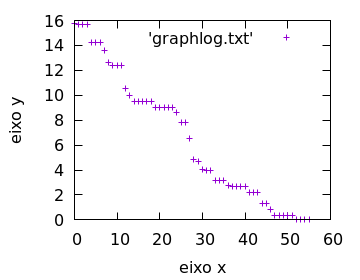
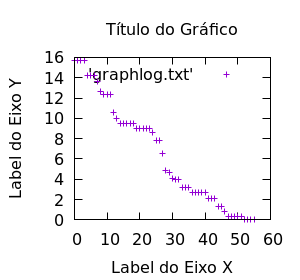
Aquela organizada no diretório [0]

diff --git a/chama_gpy.py b/chama_gpy.py
@@ -1,0 +1,10 @@
+from gplotpy import Gplotpy as gp
+
+title = gp.title("Título do Gráfico", "20")
+label = gp.label("Label do Eixo X", "Label do Eixo Y", "14")
+figure = gp.figure("graphlog.txt", "300", "280")
+plot = gp.plot("graphlog.txt")
+tpl = "new_teste.tpl"
+
+gp.template(tpl, title, label, figure, plot)
+gp.execute(tpl)
